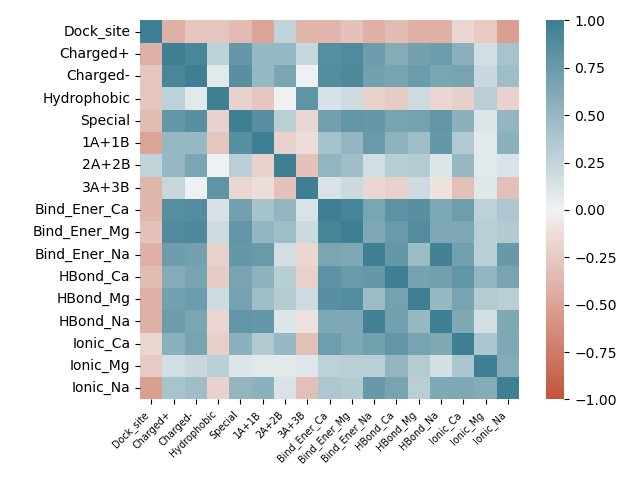
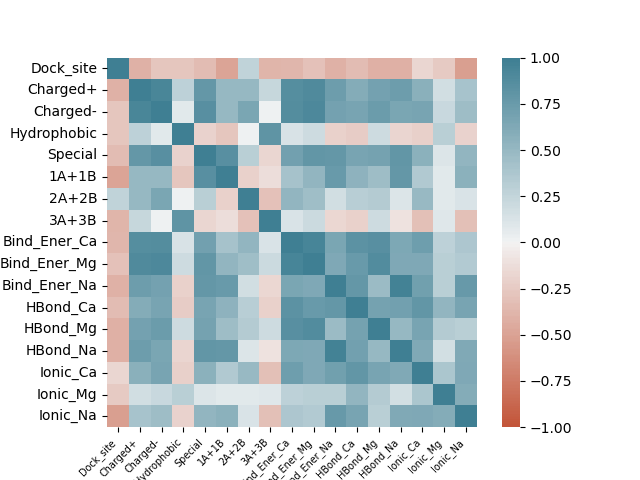
Refactoring

diff --git a/read_data.py b/read_data.py
@@ -2,9 +2,12 @@ import pandas as pd
 import numpy as np
 from matplotlib import pyplot as plt
 import seaborn as sns
+from typing import Tuple
 
-def read_and_transform(file):
-    """This project deals with three different type of file structure. The purpose of 
+
+def read_and_transform(file: str) -> pd.DataFrame:
+    """
+    This project deals with three different type of file structure. The purpose of 
     this function is to read files with H-bonds and ionic interations which have following structure:
     40000000.000
     1.000 852.000 14.775 0 4.000 2.180
@@ -54,8 +57,10 @@ def read_and_transform(file):
     return df
 
 
-def read_file_show_interaction(typ, parameter):
-    """Reading all data from all files for a given ion that is added to the system"""
+def read_file_show_interaction(typ:any, parameter: any)  -> Tuple[np.ndarray, np.ndarray]:
+    """
+    Reading all data from all files for a given ion that is added to the system
+    """
     Ca = []
     Na = []
     Mg = []
@@ -96,12 +101,13 @@ def read_file_show_interaction(typ, parameter):
     return np.array(Ca), np.array(Mg), np.array(Na)
 
 
-def count_rows_with_conditions(df):
-    """Counts number of interactions in time stamp. However we are only interested in 
+def count_rows_with_conditions(df: any) -> pd.DataFrame:
+    """
+    Counts number of interactions in time stamp. However we are only interested in 
     intermolecular interactions so that certain conditions must be applied. HSA atoms are in range
     1-9132, HA: 9133-10239, numbers above represent solvent atoms. Mind atom number is different from
-    residue number. HSA is composed of 582 residues."""
-    
+    residue number. HSA is composed of 582 residues.
+    """
     filtered_df = df[(df.iloc[:, 1] < 9133) & (df.iloc[:, 2] >= 9133) & (df.iloc[:, 1] < 10240) & (df.iloc[:, 2] < 10240)]
     if filtered_df.empty:
         return pd.DataFrame()
@@ -109,24 +115,32 @@ def count_rows_with_conditions(df):
     count_df = filtered_df.groupby('Timestamp').size().reset_index(name='Count')
     
     return count_df
-def create_figure_and_save(*args):
-    
+
+def create_figure_and_save(*args: tuple) -> None:
+    """
+    Plotting barplot to compare effect of ion presence for each binding site
+    """
     fig = plt.figure()
     X = np.arange(0, len(args[0]))
     ax = fig.add_axes([0.1, 0.1, 0.8, 0.8])
-    colors = ['b','g','r']
-    labels = ['Ca','Mg','Na']
+    colors = ['b', 'g', 'r']
+    labels = ['Ca', 'Mg', 'Na']
     for i in range(len(args)-3):
         ax.bar(X + 0.25*i, args[i], color=colors[i], width=0.25, label=labels[i])
     ax.set_title(args[3])
     ax.set_xlabel("Site")  # Added x-axis label
     ax.set_ylabel(args[4])
-    plt.legend(loc='upper right')
+    plt.legend(loc = 'upper right')
     path = r"./Files/" + args[5] + r"_vs_site.png"
     plt.savefig(path)
     #plt.show()
 
-def bind_sites():
+def bind_sites() -> np.ndarray:
+    """
+    Creating table that gathers information that shows differences between binding sites.
+    This allows me to create correlation matrix that can explain the impact of binding sites 
+    characteristics to explain binding energy.
+    """
     bind_sites = pd.read_csv('./Files/Biding_sites_summary.csv')
     # dividing amino acids into groups
     new_data = pd.DataFrame(columns=["Dock_site", "Charged+", "Charged-", "Hydrophobic", "Special", "1A+1B",  "2A+2B", "3A+3B",])
@@ -143,21 +157,25 @@ def bind_sites():
     new_data["3A+3B"] = bind_sites["3A"] + bind_sites["3B"]
     return new_data
 
-def create_corr_matrix(data):
+def create_corr_matrix(data: any) -> None:
+    """
+    Correlation matrix calaulation to find how different binding sites and presence of ions influences
+    binding energy
+    """
     corr = data.corr()
     ax = sns.heatmap(
         corr, 
-        vmin=-1, vmax=1, center=0,
-        cmap=sns.diverging_palette(20, 220, n=200),
-        square=True
+        vmin = -1, vmax=1, center=0,
+        cmap = sns.diverging_palette(20, 220, n=200),
+        square = True
     )
     ax.set_xticklabels(
         ax.get_xticklabels(),
-        rotation=45,
-        horizontalalignment='right',
-        fontsize='x-small'  # Adjust font size as needed
+        rotation = 45,
+        horizontalalignment = 'right',
+        fontsize = 'x-small'  # Adjust font size as needed
     );
-    plt.tight_layout()  # Adjust layout to prevent label overlapping
+    #plt.tight_layout()  # Adjust layout to prevent label overlapping
     plt.savefig('./Files/Correlation_matrix.png')
 
 def main():
@@ -174,7 +192,7 @@ def main():
     create_figure_and_save(Ca_Ionic, Mg_Ionic, Na_Ionic, "Ionic interactions", "# of interactions", "Ionic")
     create_figure_and_save(Ca_Bind, Mg_Bind, Na_Bind, "Binding energy", "Energy [kJ/mol]", "BindEnergy")
     
-    # Looking for correlations 
+    # Inserting calculated calumns to calutate correlation matrix
     table = bind_sites()
     table["Bind_Ener_Ca"] = Ca_Bind
     table["Bind_Ener_Mg"] = Mg_Bind

diff --git a/binding_sites.py b/binding_sites.py
@@ -2,21 +2,27 @@ import pandas as pd
 import numpy as np
 import re
 import matplotlib.pyplot as plt
+from typing import Tuple
 
-def what_site(amino_acid):
-    """There are 6 binding sites (1A, 1B, 2A, 2B, 3A, 3B). The range in which each of them belongs to specific on
+
+def what_site(amino_acid: int) -> str:
+    """
+    There are 6 binding sites (1A, 1B, 2A, 2B, 3A, 3B). The range in which each of them belongs to specific on
     can be found in bind_domains.csv. This function returns amino acid's binding site 
-    give an integer between 1 and 582"""
+    give an integer between 1 and 582
+    """
     bind_sites = pd.read_csv(r"C:\Users\piotr\.ipython\Molecular Dynamics\Files\bind_domains.csv")
     for _, row in bind_sites.iterrows():
         # Check if the number falls between res_min and res_max
         if row['res_min'] <= amino_acid <= row['res_max']:
             return row['site_name']
-
-def assign_binding_site(file):
-    """This function creates table describing binding site. Namely, it shows
+        
+def assign_binding_site(file: str) -> Tuple[np.ndarray, np.ndarray]:
+    """
+    This function creates table describing binding site. Namely, it shows
     what binding sites are in contact with hyaluronan molecule and what amino acids composition
-    'Contacting receptor residues' are present"""
+    'Contacting receptor residues' are present
+    """
     data = pd.read_csv(file)
     pattern_aa = '[A-Z]{3}'
     pattern_no = '\d+'
@@ -24,6 +30,7 @@ def assign_binding_site(file):
     amino_acids = data['Contacting receptor residues'].str.findall(pattern_aa)
     # finding positions to assign them into HSA domains
     numbers = data['Contacting receptor residues'].str.findall(pattern_no).apply(lambda x: [what_site(int(item)) for item in x])
+
     # calculating number of occurences of both amino acid composition and how many contacts with each domain
     # a particular docked position has
     merged_list_aa = np.concatenate(amino_acids)
@@ -33,21 +40,25 @@ def assign_binding_site(file):
     count_amin_acid = []
     count_site_domain = []
     lines = data.shape[0]
+
     for k in range(0,lines):
         for j in range(0,len(unique_val_aa)):
             count_amin_acid.append(len([i for i in amino_acids[k][:] if i==unique_val_aa[j]]))
         for j in range(0,len(unique_val_site)):
             count_site_domain.append(len([i for i in numbers[k][:] if i==unique_val_site[j]]))
+            
     count_amin_acid = np.array(count_amin_acid).reshape(lines,-1)
     count_site_domain = np.array(count_site_domain).reshape(lines,-1)
+
     # joining arrays to display in plt.table
     combined_table = np.concatenate((count_amin_acid, count_site_domain), axis=1)
     labels = np.concatenate((unique_val_aa,unique_val_site))
     return combined_table, labels
 
-def create_table(file_path):
-    """Genarate and prints a table showing info about binding site"""
-    
+def create_table(file_path: str) -> None:
+    """
+    Genarates and prints a table showing info about binding site
+    """
     data, labels_joined = assign_binding_site(file_path)
     docked_positions = list(range(1, data.shape[0]+1))
 

diff --git a/README.md b/README.md
@@ -44,7 +44,7 @@ complex is referred to as complex number 1 in Table 1.
 
 The correlation matrix shows how different factors influence binding between different HSA domains I-III
 and types of amino acids (https://en.wikipedia.org/wiki/Amino_acid#/media/File:ProteinogenicAminoAcids.svg) facilitating interactions.
-![Correlation](Files\Correlation_matrix.png)
+![Correlation](Files/Correlation_matrix.png)
 
 ## Conclusions
 
@@ -67,7 +67,7 @@ the presence of divalent ions, such as calcium or magnesium as those can form ca
 3. Install the required dependencies using pip:
 
     ```
-    pip install pandas matplotlib numpy
+    pip install pandas matplotlib numpy sns re typing
     ```
 
 ## Usage
@@ -94,5 +94,5 @@ Contributions to this project are welcome. If you find any issues or have sugges
 
 ## License
 
-This project is licensed under the MIT License. See the [LICENSE](LICENSE) file for details.
+This project is licensed under the MIT License. See the (LICENSE) file for details.
 
